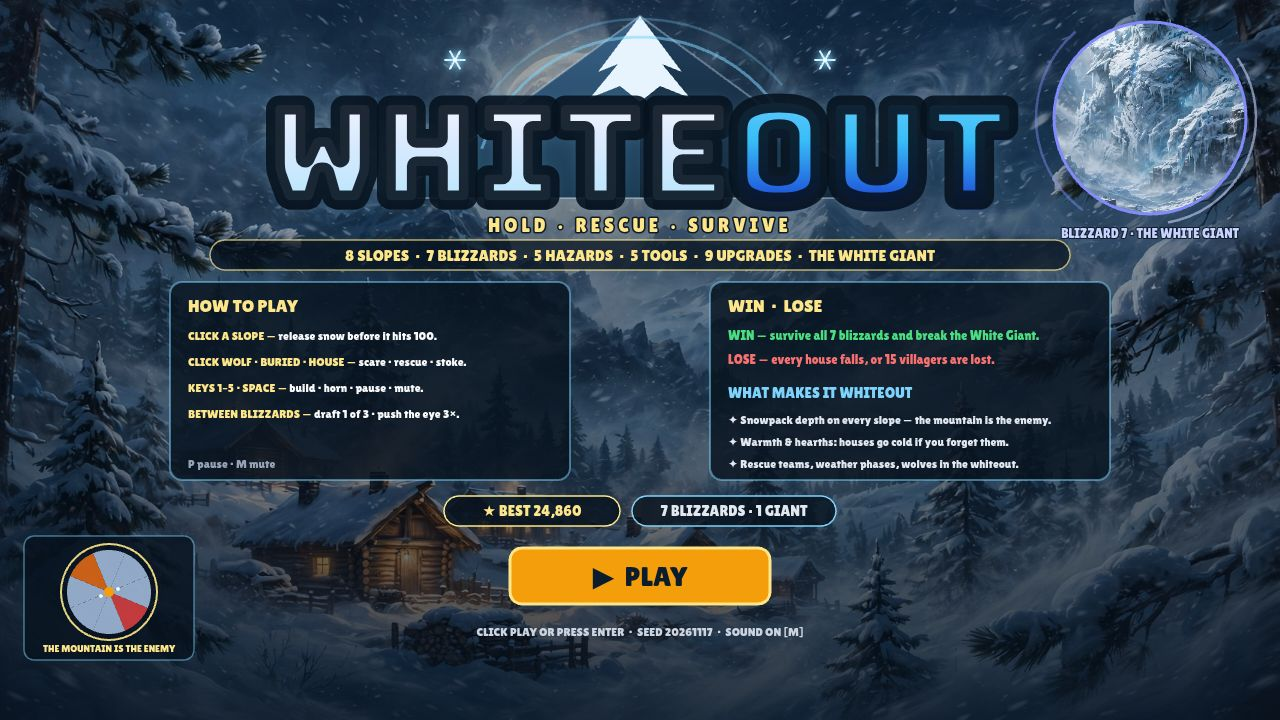
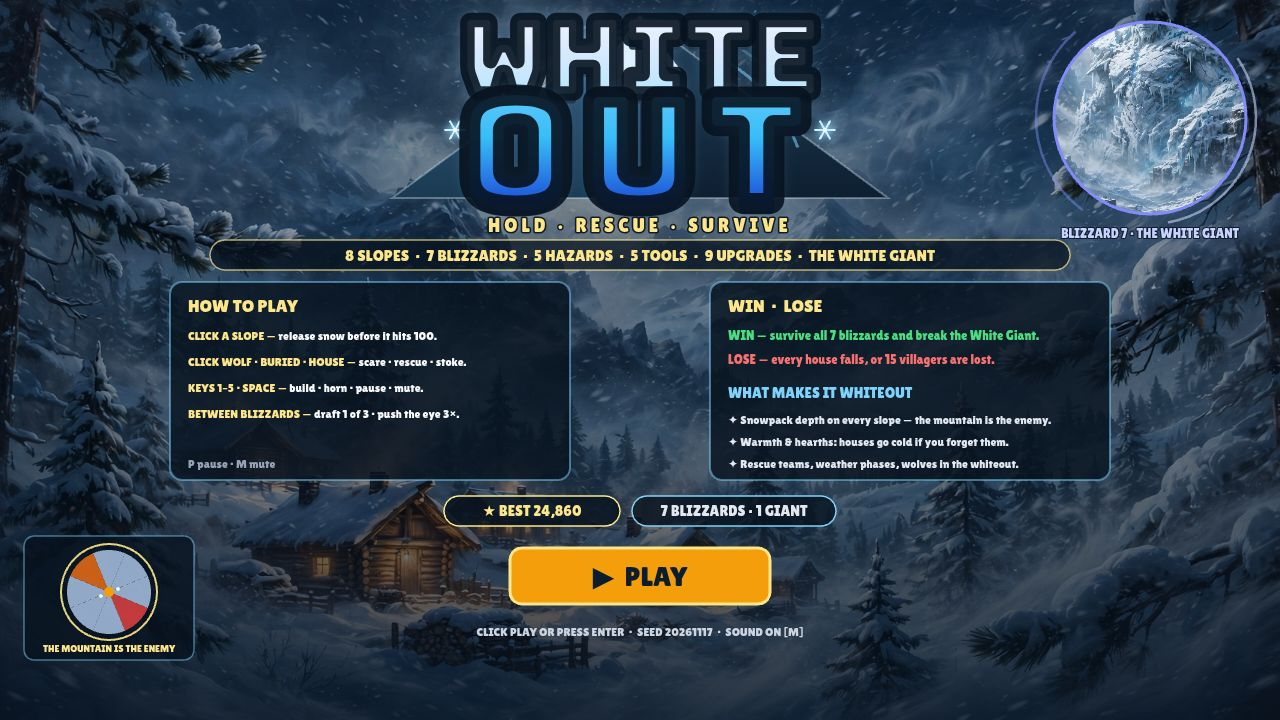
title: stacked Bungee wordmark, both lines same width with flush edges

Changed region(s): [[0.1875, 0.0, 0.8125, 0.3056]]

diff --git a/game/src/render.js b/game/src/render.js
@@ -1,5 +1,5 @@
 // WHITEOUT — all drawing. Canvas 2D, 1280x720, Lilita One display font,
-// Bungee for the one-line title logo.
+// Bungee for the stacked title logo.
 // Layout is deliberately NOT the top-entries' top-bar + side panels: the
 // mountain sits in the centre, a storm ring circles it, and four corner
 // tablets hold threats, rescue, build and weather/resources.
@@ -95,20 +95,41 @@ function logoText(ctx, s, x, y, size, stops, depthColor, outline) {
   logoPart(ctx, s, x - w / 2, y, size, stops, depthColor, outline, FONT);
 }
 
-// One-line Bungee wordmark, fitted to the title width (clear of the giant
-// medallion on the right). Size is fitted once and cached; the fit uses
-// the loaded Bungee metrics, so it matches what is drawn.
-let logoOneLineSize = 0;
-function fitOneLineLogo(ctx) {
-  if (logoOneLineSize) return logoOneLineSize;
-  let size = 132;
-  ctx.font = `${size}px ${LOGO_FONT}`;
-  while (size > 40 && ctx.measureText('WHITEOUT').width > 760) {
-    size -= 2;
-    ctx.font = `${size}px ${LOGO_FONT}`;
+// Stacked Bungee wordmark, both lines the SAME width with flush left and
+// right edges — one straight, neat block. WHITE is fitted to the title
+// width; OUT is sized to fit the same vertical budget and stretched with
+// letter-spacing to exactly WHITE's width. The two sizes sum to at most
+// 250 so the block (caps + gap + extrusion) ends above the tagline at
+// 232. Fitted once and cached; the fit uses the loaded Bungee metrics,
+// so it matches what is drawn.
+const STACKED_TARGET = 360;
+const STACKED_TOP = 20;
+const STACKED_GAP = 2;
+let logoStacked = null;
+function fitStackedLogo(ctx) {
+  if (logoStacked) return logoStacked;
+  ctx.letterSpacing = '0px';
+  let sizeW = 200;
+  ctx.font = `${sizeW}px ${LOGO_FONT}`;
+  while (sizeW > 40 && ctx.measureText('WHITE').width > STACKED_TARGET) {
+    sizeW -= 2;
+    ctx.font = `${sizeW}px ${LOGO_FONT}`;
   }
-  logoOneLineSize = size;
-  return size;
+  const widthW = ctx.measureText('WHITE').width;
+  const capW = ctx.measureText('WHITE').actualBoundingBoxAscent || sizeW * 0.72;
+  let sizeO = Math.min(240, 250 - sizeW);
+  ctx.font = `${sizeO}px ${LOGO_FONT}`;
+  while (sizeO > 40 && ctx.measureText('OUT').width > widthW) {
+    sizeO -= 2;
+    ctx.font = `${sizeO}px ${LOGO_FONT}`;
+  }
+  const widthO = ctx.measureText('OUT').width;
+  const capO = ctx.measureText('OUT').actualBoundingBoxAscent || sizeO * 0.72;
+  const lsO = Math.max(0, (widthW - widthO) / 3);
+  const baseW = STACKED_TOP + Math.ceil(capW);
+  const baseO = baseW + STACKED_GAP + Math.ceil(capO);
+  logoStacked = { sizeW, sizeO, widthW, lsO, baseW, baseO };
+  return logoStacked;
 }
 
 function tablet(ctx, t, title, titleColor) {
@@ -848,7 +869,7 @@ function drawTitle(ctx, world) {
   ctx.fillStyle = g;
   ctx.fillRect(0, 0, W, H);
   // Title logo, Volcano Haven style in our snow theme: a snow-mountain
-  // peak + storm swirl behind a chunky one-line wordmark, with a
+  // peak + storm swirl behind a chunky stacked two-line wordmark, with a
   // dot-separated tagline below. Original art, drawn by the game itself.
   // Snow-mountain peak behind the letters (apex above the wordmark, like
   // the volcano behind VOLCANO HAVEN).
@@ -905,23 +926,23 @@ function drawTitle(ctx, world) {
   ctx.strokeStyle = 'rgba(125,211,252,0.28)';
   ctx.lineWidth = 2.5;
   ctx.beginPath(); ctx.arc(CX, 205, 186, -2.5, -0.7); ctx.stroke();
-  // Snowflakes flanking the peak apex, high on either side — clear of
-  // the one-line wordmark below.
-  flake(ctx, 455, 60, 10);
-  flake(ctx, 825, 60, 10);
-  // One-line wordmark, Bungee: "WHITE" frosty-white + "OUT" icy-blue,
-  // straight across (not stacked), fitted to the title width.
-  const lsize = fitOneLineLogo(ctx);
-  ctx.font = `${lsize}px ${LOGO_FONT}`;
-  const wWhite = ctx.measureText('WHITE').width;
-  const wOut = ctx.measureText('OUT').width;
-  const lx = CX - (wWhite + wOut) / 2;
-  logoPart(ctx, 'WHITE', lx, 200, lsize,
+  // Snowflakes flanking the peak, just outside its edges.
+  flake(ctx, 455, 130, 10);
+  flake(ctx, 825, 130, 10);
+  // Stacked wordmark, Bungee: frosty-white WHITE over deep icy-blue OUT,
+  // both lines the same width with flush left and right edges — one
+  // straight, neat block. OUT is stretched with letter-spacing to match
+  // WHITE's width exactly.
+  const logo = fitStackedLogo(ctx);
+  const lx = CX - logo.widthW / 2;
+  logoPart(ctx, 'WHITE', lx, logo.baseW, logo.sizeW,
     [[0, '#ffffff'], [0.55, '#dbeafe'], [1, '#bae6fd']],
     '#1e293b', 'rgba(7,18,30,0.9)', LOGO_FONT);
-  logoPart(ctx, 'OUT', lx + wWhite, 200, lsize,
+  ctx.letterSpacing = `${logo.lsO}px`;
+  logoPart(ctx, 'OUT', lx, logo.baseO, logo.sizeO,
     [[0, '#7dd3fc'], [0.55, '#38bdf8'], [1, '#1d4ed8']],
     '#1e3a8a', 'rgba(7,18,30,0.9)', LOGO_FONT);
+  ctx.letterSpacing = '0px';
   // Dot-separated tagline: the game's three verbs.
   ctx.letterSpacing = '4px';
   text(ctx, 'HOLD • RESCUE • SURVIVE', CX, 232, 19, '#fde68a', 'center', 'rgba(7,18,30,0.9)');
